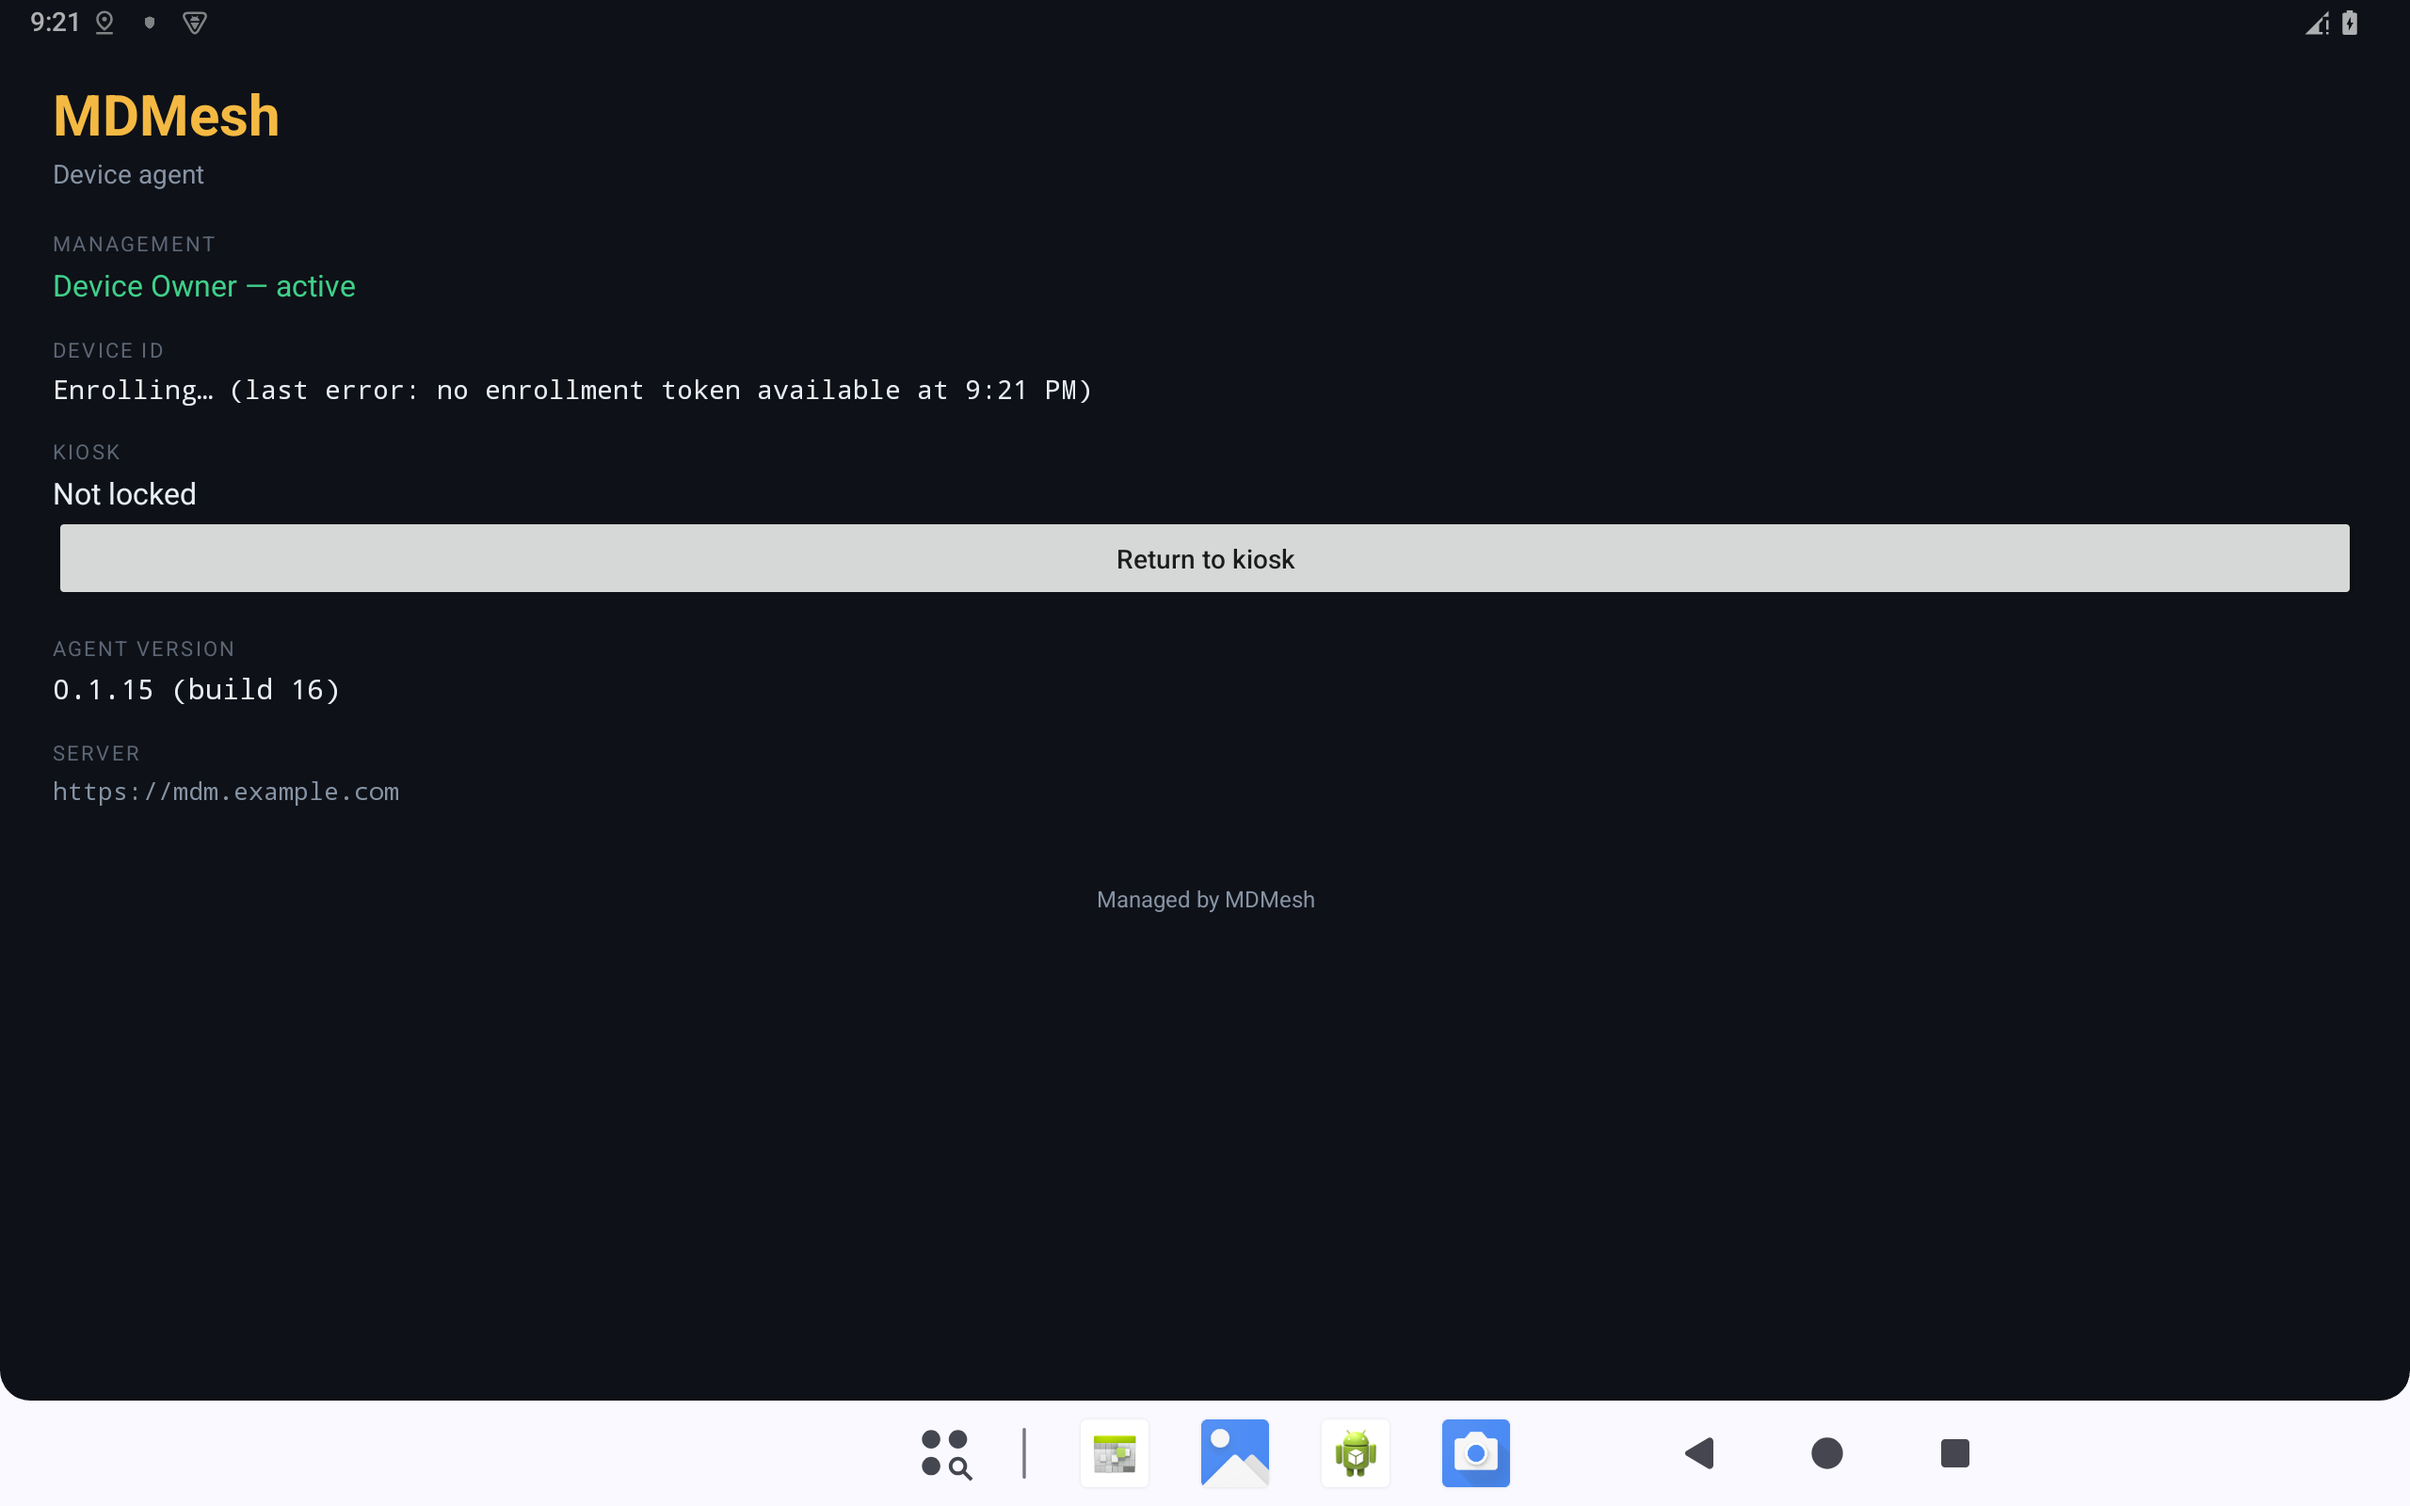
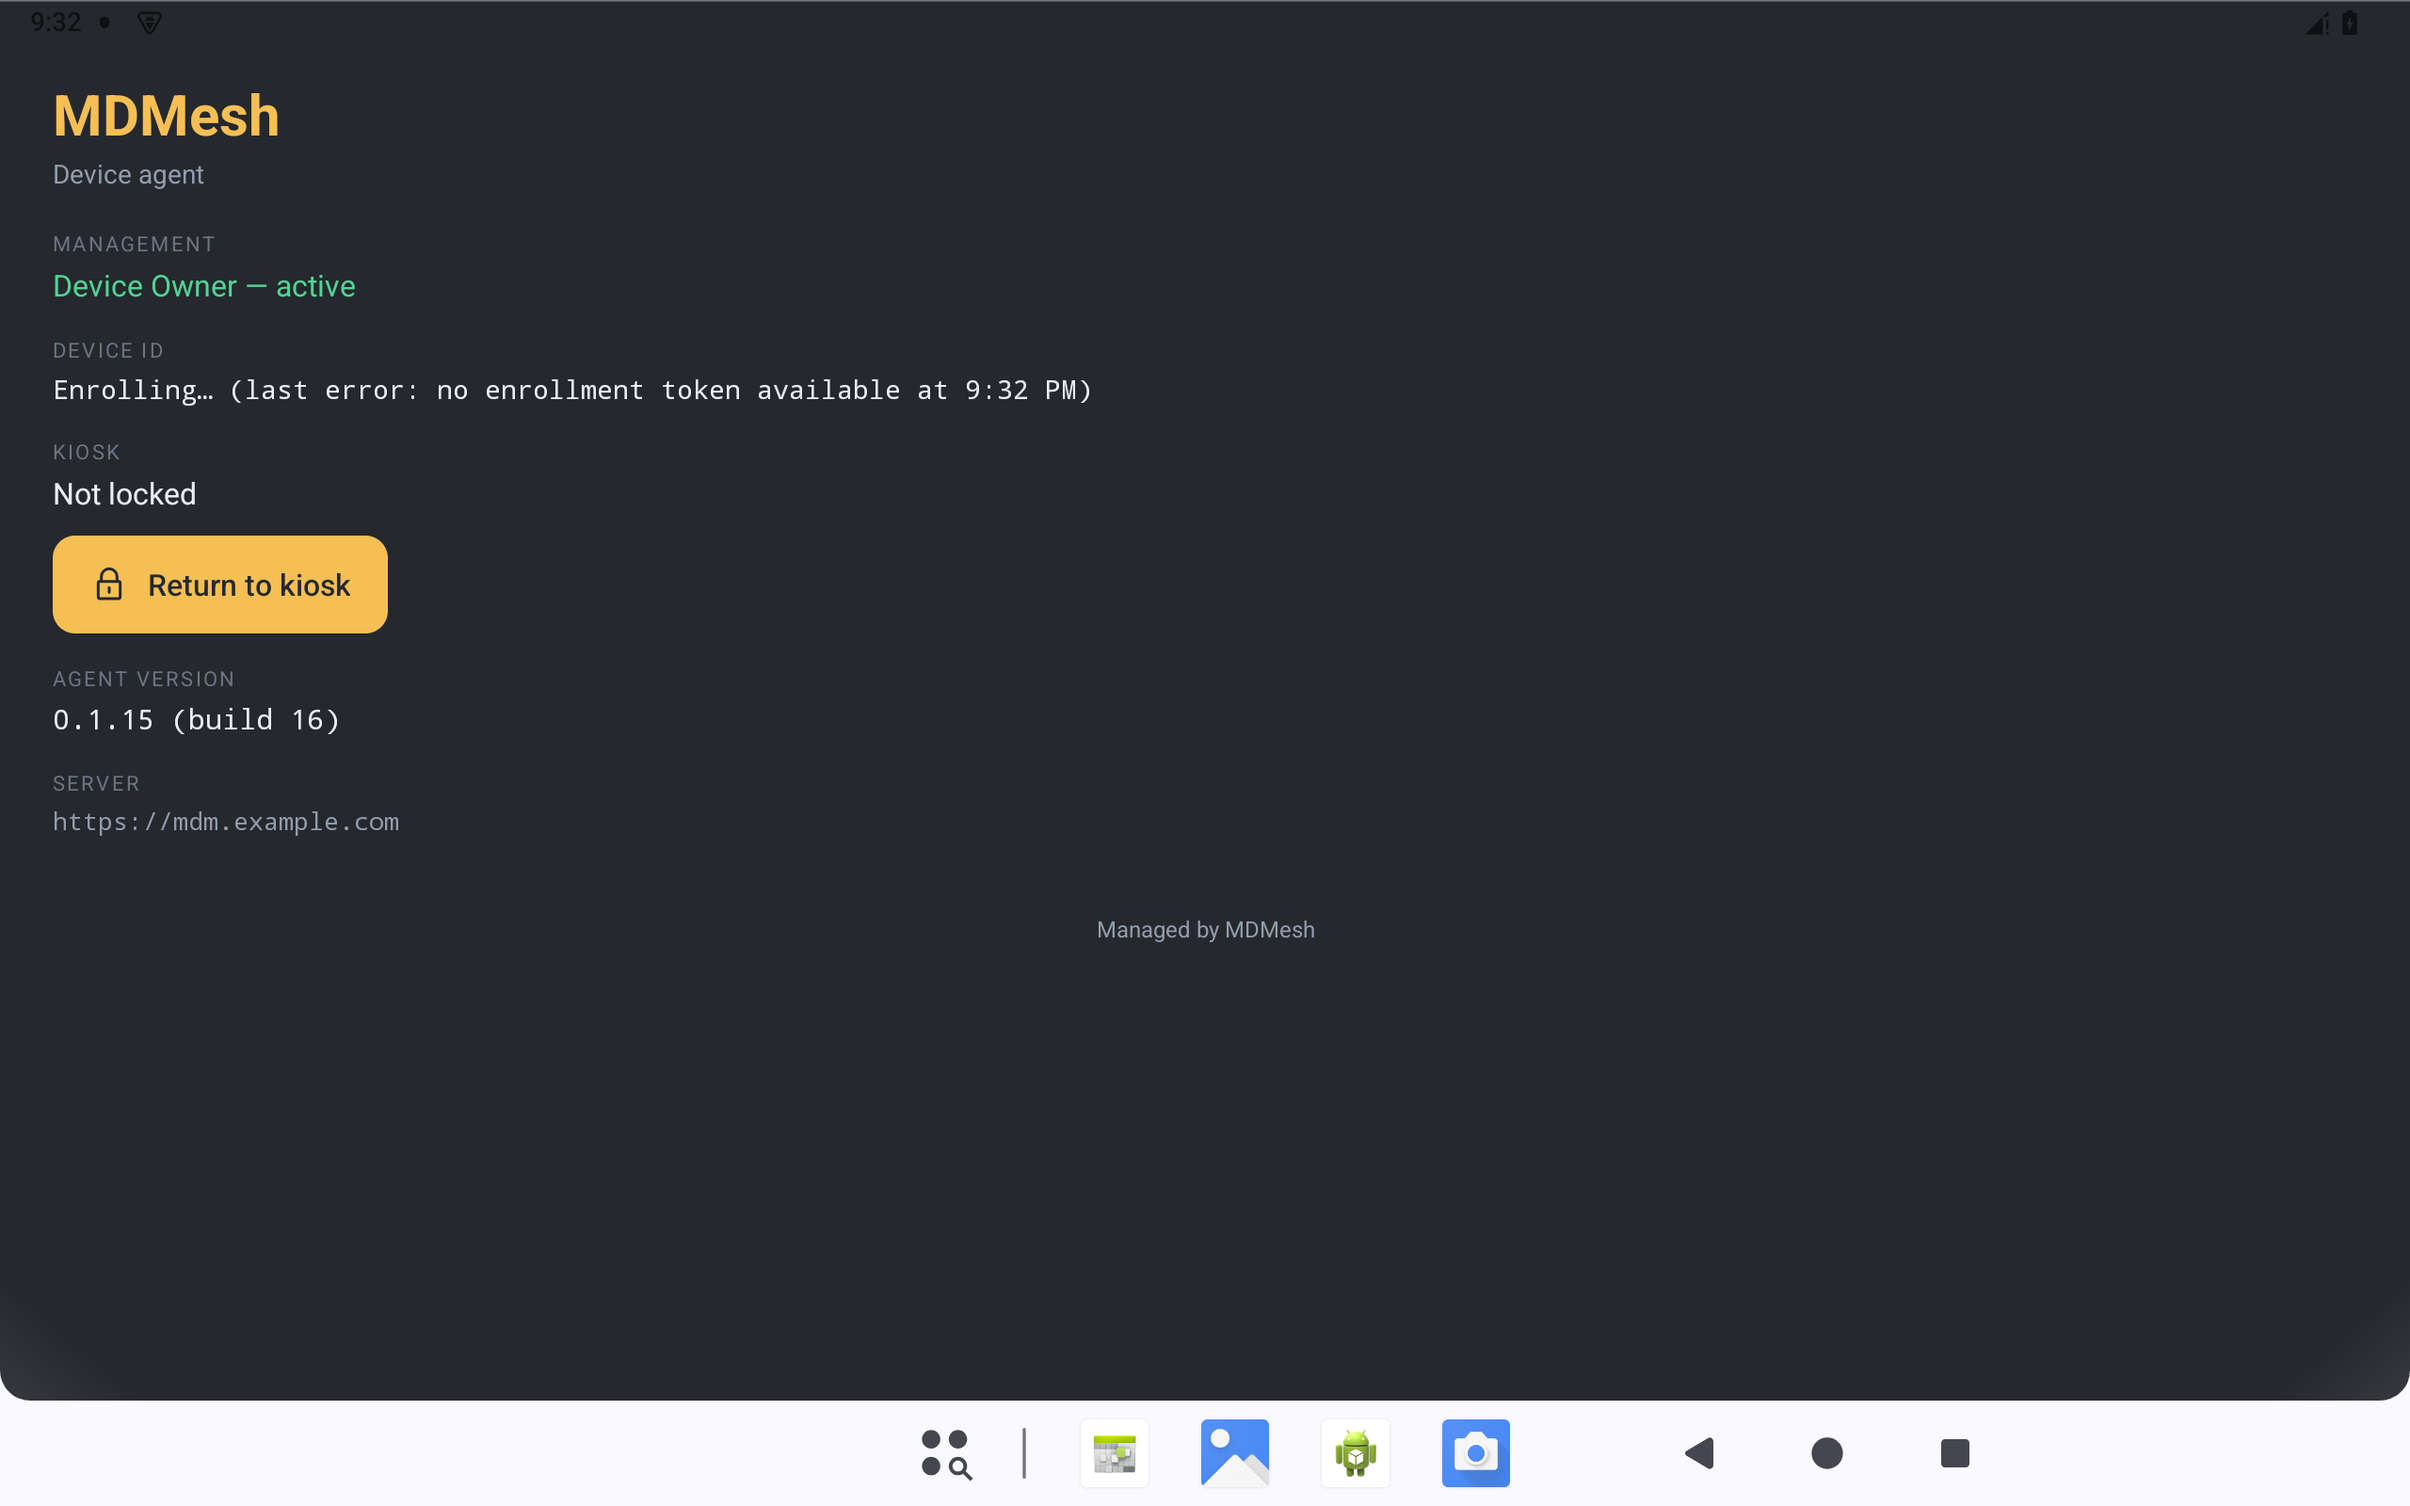
style: refine the on-device kiosk return button
Use the agent's amber accent, compact rounded layout, a lock icon, and native
pressed and disabled states. Show progress while returning and refresh the
screenshot from the passing offline emulator workflow.

diff --git a/agent-android/app/src/main/kotlin/com/mdmesh/agent/MainActivity.kt b/agent-android/app/src/main/kotlin/com/mdmesh/agent/MainActivity.kt
@@ -96,6 +96,7 @@ class MainActivity : ComponentActivity() {
         val canReturn = isDeviceOwner() && !isLocked() && configStore.configuredKiosk() != null
         returnButton.visibility = if (canReturn) View.VISIBLE else View.GONE
         returnButton.isEnabled = canReturn && !returningToKiosk
+        returnButton.text = if (returningToKiosk) "Returning…" else "Return to kiosk"
         lifecycleScope.launch {
             val id = deviceIdStore.current()
             deviceIdValue.text = if (id.isNullOrBlank()) enrollingLabel() else id
@@ -105,7 +106,7 @@ class MainActivity : ComponentActivity() {
     private fun returnToKiosk() {
         if (returningToKiosk) return
         returningToKiosk = true
-        returnButton.isEnabled = false
+        refresh()
         lifecycleScope.launch {
             try {
                 val result = runCatching { configApplier.returnToConfiguredKiosk() }.getOrElse {
@@ -168,10 +169,11 @@ class MainActivity : ComponentActivity() {
         root.addView(label("KIOSK"))
         kioskValue = text("…", 16f, TEXT)
         root.addView(kioskValue)
-        returnButton = Button(this).apply {
-            text = "Return to kiosk"
+        returnButton = Button(this, null, 0, R.style.Widget_MDMesh_KioskReturnButton).apply {
             visibility = View.GONE
-            isAllCaps = false
+            layoutParams = LinearLayout.LayoutParams(
+                ViewGroup.LayoutParams.WRAP_CONTENT, ViewGroup.LayoutParams.WRAP_CONTENT,
+            ).apply { topMargin = dp(RETURN_BUTTON_GAP) }
             setOnClickListener { returnToKiosk() }
         }
         root.addView(returnButton)
@@ -234,6 +236,7 @@ class MainActivity : ComponentActivity() {
 
     private companion object {
         const val MATCH = ViewGroup.LayoutParams.MATCH_PARENT
+        const val RETURN_BUTTON_GAP = 12
         val INK = Color.parseColor("#0E1117")
         val TEXT = Color.parseColor("#E8EEF4")
         val MUTED = Color.parseColor("#8693A4")
